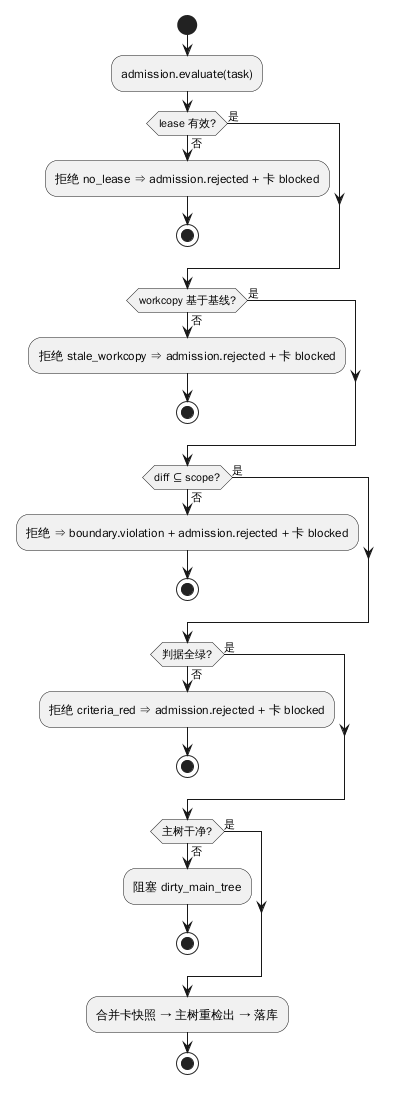
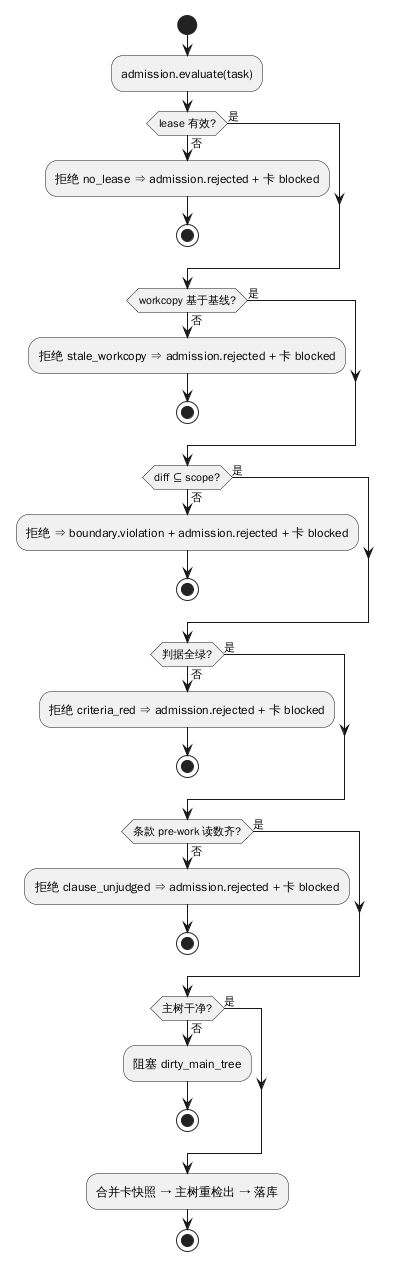
docs+design+check: 第二十八轮评审修复（clause_readings 进签名、P4 图补 clause_unjudged、M1/M2 排期、R33 表图一致）

diff --git a/design/check.py b/design/check.py
@@ -661,6 +661,23 @@ for path in sorted(glob.glob(os.path.join(DOCS, "*.md"))) + [
                                f"（freshness 会漏，改成 docs/04 §4 的三条）")
 bad.extend(banned_hits)
 
+# ---------- R33 P4 判定表的拒绝码必须出现在 P4 流程图里 ----------
+p4_sec = re.search(r"\n## \d+\. P4[^\n]*\n(.*?)(?=\n## \d+\. )", d03, flags=re.S)
+p4_dot = diagram_sources().get("p4-admission.puml", "")
+if p4_sec and p4_dot:
+    codes = set()
+    for line in p4_sec.group(1).splitlines():
+        if not line.startswith("|"):
+            continue
+        cells = [c.strip() for c in line.strip().strip("|").split("|")]
+        if len(cells) >= 6:
+            # 只取「拒绝/阻塞」后面那个 code，别把正文里提到的其它标识当拒绝码
+            codes |= set(re.findall(r"(?:拒绝|阻塞)[^`|]*`([a-z_.]+)`", cells[-1]))
+    for code in sorted(codes):
+        if code not in p4_dot:
+            bad.append(f"[R33] P4 判定表里的 {code} 没出现在 p4-admission 流程图里"
+                       f"（表与图两张表达，必有一边漏）")
+
 if bad:
     print(f"✗ design 漂移 {len(bad)} 处：")
     for b in bad:
@@ -668,4 +685,4 @@ if bad:
     sys.exit(1)
 
 print("✓ design 无漂移：图片、产物&源文件重建一致、事件 kind（文档+图）、模块↔组件、"
-      "标题编号、状态枚举、分层依赖、计数、P3 串联、矩阵守卫点、依赖列、事件生产者、判据落点、preset 保证、过程归属、顺序图依赖、废弃句式")
+      "标题编号、状态枚举、分层依赖、计数、P3 串联、矩阵守卫点、依赖列、事件生产者、判据落点、preset 保证、过程归属、顺序图依赖、废弃句式、P4 表图一致")

diff --git a/design/diagrams/build.py b/design/diagrams/build.py
@@ -212,6 +212,11 @@ if (判据全绿?) then (否)
   stop
 else (是)
 endif
+if (条款 pre-work 读数齐?) then (否)
+  :拒绝 clause_unjudged ⇒ admission.rejected + 卡 blocked;
+  stop
+else (是)
+endif
 if (主树干净?) then (否)
   :阻塞 dirty_main_tree;
   stop
@@ -528,6 +533,7 @@ class Snapshot {
 class Decision {
   + id : DecisionId
   + payload : PayloadHash
+  + clauseReadings : list
   + frontier : Frontier
   + sign(signer)
 }

diff --git a/design/REVIEW.md b/design/REVIEW.md
@@ -370,7 +370,21 @@
 - 准入：`clause_unjudged` 只查 pre-work 八条，与其余前置**同时**判；
 - post-work：`task.complete`/`design.code_matches`/`node.integration_listed` 在各自时点判。
 
-## 28. 当前状态与未覆盖项
+## 28. 评审二十八（2026-11-06，**评审会话 2**，整套设计审）
+
+**起点**：`8e04319`。**结论**：方向都通过，但最后几轮新增的"晚到条款"链**没有闭环**——设计写了、签字 schema / 流程图 / 实施计划没接住。**3 个 P1 + 4 个 P2**，核实为真；也修正了我上一轮"无 P1"的说法（那是只看了配置面）。
+
+| 发现 | 处置 | 落点 |
+|---|---|---|
+| **P1-1 `spec_set` 签字载荷没有绑定条款读数**：docs/04 要求"签字前渲染每条 requirement 的 pre-work 读数"，但 payload 只有 `spec_ids[]`/`dispositions[]`，没有 `readings[]`/`readings_hash` ⇒ 人签的是集合，签完后读数变了签名仍有效 | payload 加 **`clause_readings[]`**（`spec_id`/`spec_version_hash`/`criterion`/`verdict`/`stage_run_id`/`data_hash`）与 **`readings_hash`**；`content_hash` 覆盖 `readings_hash`；P9 C 组加对账（复算不一致即红）；`Decision` 类加该字段 | `docs/06` §5、`design/03` P9、类图 |
+| **P1-2 P4 流程图没有 `clause_unjudged` 分支**（判定表有、图没有 → 两张表达漂移；R19 只保证图能重建） | `p4-admission` 模板加分支（在"判据全绿"之后、"主树干净"之前）；重建；**新增 R33**：P4 表里「拒绝/阻塞」的每个 code 必须出现在流程图里（已做反例：删掉分支即红） | `design/diagrams/build.py`、`design/check.py` R33 |
+| **P1-3 M1/M2 没排晚到条款链**：M1 有假设链与抽样，但没有 `spec_set` 签字载荷、`clause_unjudged`、P13 重判 ⇒ 设计补了、实施计划不会建 | M1「做」补：`spec_set` 载荷含 `clause_readings[]`/`readings_hash`、P13 按依赖闭包重判、P4 `clause_unjudged`；判死读数加"晚到 requirement 未重判 ⇒ 准入被拒；缺读数 ⇒ 拒签"。M2 补 `spec_set` 的签/撤销级联 | `docs/09` §16.2/§16.3 |
+| P2 `clause_unjudged` 不查"条款在有效 `spec_set` 里" | 明确写死：`spec_set.signed` 是 **stage 出口门**、不是准入前置（避免自指）；准入只查读数 | `design/03` P4 |
+| P2 `docs/07` 准入没写 `clause_unjudged` | 19.3 流程图与 19 节准入表都补上该前置 | `docs/07` |
+| P2 README 还写"配置面" | 改成「设计基线可进入实现；配置面、假设面、条款质量面均已通过」 | `design/README` |
+| P2 台账 27 轮说"无 P1" | 本轮补 §28 更正：27 轮只覆盖配置面，晚到条款链的 P1 由会话 2 查出 | 本文件 |
+
+## 29. 当前状态与未覆盖项
 
 - 判据 **24 条**、过程 **15 个**、图 **28 张**、表 **26 张**、模块 **20 个**；G1–G5 全 A；探针 **21 PASS / 0 GAP**。
 - **未覆盖（明确不声称已验）**：
@@ -379,7 +393,22 @@
   3. 评审抽样的**规则**已进 `review.required` 与 P14，但**没跑过一轮**（P14 的抽样只在文档里），仍然只能靠实现期验证。
 - 下一轮评审若继续，优先看上面三项，而不是再加文档。
 
-### 28.1 机制预算读数（`docs/01` §11 要求）
+### 29.1 评审作用域（结论只在所述作用域内成立）
+
+这套台账里两个会话的审法不同，**结论必须带作用域**，否则会被读成全局结论：
+
+| 作用域 | 怎么审 | 能发现什么 | 不能发现什么 |
+|---|---|---|---|
+| **增量** | 只核上一轮的处置，加上它触达的面 | 修错、修窄、修过头 | 上一轮没提到的整块缺口 |
+| **整套** | 从三条保证重推一遍，覆盖全部载体（判据/签字 schema/流程图/里程碑/probe） | 跨载体的"写了没接住" | 细节回归（那是增量的事） |
+
+**教训**：第 27 轮（增量）写"无 P1"，第 28 轮（整套）立刻找出 3 个 P1。不是谁漏了，是**作用域不同**。所以：
+
+- 每轮标题里的"复评/复审"默认是**增量**；只有写"整套设计审"的才是整套；
+- **"无 P1" 只在所述作用域内成立**，台账里不再用它暗示"可收口"；
+- **整套审放在里程碑门上**（进 M1 前、发版前各一次），不是每轮都做——每轮做增量，成本低、回归快。
+
+### 29.2 机制预算读数（`docs/01` §11 要求）
 
 | 项 | 现在 | 本轮新增机制类 |
 |---|---|---|
@@ -392,7 +421,7 @@
 
 **退休候选（`caught=0` 且无人消费）**：暂无。先例是第七轮删掉的 `core_waived_unstated`（"写降级就放行"的分支，从未被走到）——给新机制定退休条件时，照这个做：**只要一个分支永远不可达，就删掉它，而不是留着"看起来在管"。**
 
-### 28.2 结构与 OOM 覆盖自查（作者自查，非评审）
+### 29.3 结构与 OOM 覆盖自查（作者自查，非评审）
 
 按"概念表 → 类/上下文/模块"和"过程 → 模块"两个方向对了一遍，查出 5 处覆盖缺口（都已修）：
 

diff --git a/design/README.md b/design/README.md
@@ -1,8 +1,8 @@
 # 设计阶段（结构化设计 + 面向对象模型）
 
-> **状态：配置面已通过非作者评审，可进入实现**（二十七轮，2026-11-02 至 11-06；记录见 [REVIEW.md](REVIEW.md)）。
+> **状态：设计基线可进入实现；配置面、假设面、条款质量面均已通过非作者评审**（二十八轮，2026-11-02 至 11-06；记录见 [REVIEW.md](REVIEW.md)）。
 > [`docs/14`](../docs/14-待决缺口.md) 的 G1–G5 **已全部决定（均选 A）**，探针 **21 PASS / 0 GAP**。
-> 三到二十七轮提出的配置面问题**逐条处置完毕**：core 判据清单与**有效绑定**、release 绑 `baseline_hash`、baseline 影响面进签名、`docs/02` 的 baseline 引用语义、stage 的 `kinds` 与 `after` 边、`guarantee_delta` 的机械推导、**三个 preset 的 gate 目录**、**core 强制（无"写降级就过"后门）**。**未覆盖**：运行时未验、评审抽样未落地；假设状态机的**规则**已进 probe #15，但**实现未写**（不是「未进 probe」），见 [REVIEW.md](REVIEW.md) §28——实现从 [docs/09 §16](../docs/09-交付与迁移.md) 的 M1 开始。
+> 三到二十八轮提出的问题**逐条处置完毕**（配置面、假设面、抽样、晚到条款链）：core 判据清单与**有效绑定**、release 绑 `baseline_hash`、baseline 影响面进签名、`docs/02` 的 baseline 引用语义、stage 的 `kinds` 与 `after` 边、`guarantee_delta` 的机械推导、**三个 preset 的 gate 目录**、**core 强制（无"写降级就过"后门）**。**未覆盖**：运行时未验、评审抽样未落地；假设状态机的**规则**已进 probe #15，但**实现未写**（不是「未进 probe」），见 [REVIEW.md](REVIEW.md) §29（**结论带作用域**：增量审只管上一轮处置，整套审放在里程碑门）——实现从 [docs/09 §16](../docs/09-交付与迁移.md) 的 M1 开始。
 
 > 这个目录接在 `docs/`（需求/设计基线）之后、实现之前。它回答两件事：
 > **系统怎么分层、模块怎么切**（结构化设计），以及 **对象怎么建模、职责怎么分**（OOM）。
@@ -24,7 +24,7 @@
 | [01-结构化设计](01-结构化设计.md) | 分层、模块、接口、依赖规则、数据流、事务与错误模型 |
 | [02-面向对象模型](02-面向对象模型.md) | 限界上下文、类图、状态图、顺序图、聚合与不变量守卫矩阵 |
 | [03-过程逻辑](03-过程逻辑.md) | 流程图、N-S 图、PAD 图、判定表/判定树（15 个过程：P1–P10 原样 + P11 对齐/复述、P12 假设处置、P13 变更返工、P14 评审收口、P15 配置与冻结；含 verify 与签字） |
-| [REVIEW.md](REVIEW.md) | **评审台账**：二十七轮非作者评审的发现 → 处置 → 落点，以及明确的未覆盖项 |
+| [REVIEW.md](REVIEW.md) | **评审台账**：二十八轮非作者评审的发现 → 处置 → 落点，以及明确的未覆盖项 |
 | [diagrams/](diagrams/) | 28 张图：**PlantUML**（流程图/类图/状态图/顺序图，`.puml`）+ **Graphviz**（N-S/PAD/判定树，`.dot`）；`python3 diagrams/build.py` 重新生成 |
 
 ## 评审门槛（进实现前必须满足）
@@ -61,9 +61,10 @@
 | R29 | **preset 冻结结论可由机器复算**：严格解析 `docs/04` 的 `保证` 与 `applies_to`（非 kind 取值即红）+ `docs/08` §1.1 的三份 gate 目录（未知键即红），复算有效绑定（`all_of` + 不可豁免 + stage 适用），core 三条必须有效绑定；**末尾三组自检**保证"该拦的真被拦住" |
 | R30 | **每个过程都有模块归属**：`design/03` §17 表的模块列必须覆盖 P1–P15，且每个名字都在 `design/01` 模块表里（改名、删行都会红） |
 | R31 | **顺序图里的 L1→L1 调用必须登记**：实线 `->` 两端都属于 L1 时，目标模块必须出现在源模块的依赖列里（虚线 `-->` 是返回，不算）；抓"图里出现、架构里没登记"的漂移。**已知边界**：`handlers` 的依赖写作「L1 服务」（刻意抽象），L2→L1 不做逐边校验，见 `design/01` §3 |
+| R33 | **P4 判定表与流程图一致**：表里「拒绝/阻塞」的每个 code 必须出现在 `p4-admission` 流程图里（同一过程两张表达，漏一边即红） |
 | R32 | **已废弃的判据句式不许留在实现面**：`docs/` 与 `design/01–03` 里出现"仍为 open 的假设都必须已被…覆盖"之类旧谓词即红（freshness 会漏） |
 
-绿色只说明"这十八类漂移没有"，**不说明语义对**——语义仍靠评审。
+绿色只说明"这十九类漂移没有"，**不说明语义对**——语义仍靠评审。
 
 > `make all` **不重建图**：重建会把过期产物"改对"再让检查比对，等于自己骗自己。要重建跑 `make fresh`（= `design` + `all`），或单独 `make design`。
 

diff --git a/design/03-过程逻辑.md b/design/03-过程逻辑.md
@@ -153,7 +153,7 @@
 | 是 | 否 | — | — | — | 拒绝 `stale_workcopy` |
 | 是 | 是 | 否 | — | — | 拒绝 + `boundary.violation` |
 | 是 | 是 | 是 | 否 | — | 拒绝 `criteria_red` |
-| 卡关联的 requirement/design 条款**最近一次修订之后没有 pre-work 判据读数**（只查不需要产物的那批；post-work 的 `task.complete`/`design.code_matches` 不在准入查） | — | — | — | — | 拒绝 `clause_unjudged`（晚到/改过的条款没过自己的 **pre-work** 判据：`alignment.examples_present`/`redteam.disposed`/`stage.requirement_complete`/`design.covers_spec`/`design.no_spec_creep`/`design.alternatives_declared`/`intent.restated_consistent`/`node.acceptance_bound`；**这一行是独立前置，与其余列同时判**） |
+| 卡关联的 requirement/design 条款**最近一次修订之后没有 pre-work 判据读数**（只查不需要产物的那批；post-work 的 `task.complete`/`design.code_matches` 不在准入查） | — | — | — | — | 拒绝 `clause_unjudged`（晚到/改过的条款没过自己的 **pre-work** 判据（**只查读数，不查条款是否已在有效 `spec_set` 里**——`spec_set.signed` 是 **stage 出口门**，不是准入前置，避免自指）；`alignment.examples_present`/`redteam.disposed`/`stage.requirement_complete`/`design.covers_spec`/`design.no_spec_creep`/`design.alternatives_declared`/`intent.restated_consistent`/`node.acceptance_bound`；**这一行是独立前置，与其余列同时判**） |
 | 是 | 是 | 是 | 是 | 否 | 阻塞 `dirty_main_tree` |
 | 是 | 是 | 是 | 是 | 是 | 准入 |
 
@@ -268,7 +268,7 @@
 |---|---|---|
 | **A 事件链** | hash 链连续、`prev` 存在、`state.cursor` 与事件数一致 | `chain_broken` |
 | **B 引用** | `subject` 外键可解析、`claim.derived_by` 已注册、`snapshot_parent` 无悬空（`docs/14` G1）、`event.kind ⊆ event_kind`（G5） | `reference_dangling` |
-| **C 判定** | 派生列 = 重算值（G2）、每条 `active` 判据**有 `remedy` + 正例 + 负例**（不是"无负例"）、判定引用的 `baseline` 仍已冻结且可复算、**`direction` 与内容 diff 一致**（收紧/放宽不能记反）、**每条 `assumption.disposed` 的 `decision_id` 指向有效 `assumption_set`**（该 decision 的 `spec_ids[]`/`dispositions[]` 覆盖这条且一致，状态与事件一致）、**每条有效 `assumption_set` 的 `dispositions[]` 都有对应的 `assumption.disposed`**（缺 ⇒ 按 `decision_id` 幂等重放，重放后仍缺 ⇒ 红）、`decision.signature` 可验且 `signer ≠ producer`、**release 冻结（`kind='freeze'`）的 `scenarios_run[]` 非空且 `ran_by` 是人**（`kind='baseline'` 不要求） | `judgement_mismatch` |
+| **C 判定** | 派生列 = 重算值（G2）、每条 `active` 判据**有 `remedy` + 正例 + 负例**（不是"无负例"）、判定引用的 `baseline` 仍已冻结且可复算、**`direction` 与内容 diff 一致**（收紧/放宽不能记反）、**每条 `assumption.disposed` 的 `decision_id` 指向有效 `assumption_set`**（该 decision 的 `spec_ids[]`/`dispositions[]` 覆盖这条且一致，状态与事件一致）、**`spec_set` 的 `readings_hash` 与按 `clause_readings[]` 复算的一致**（读数被改过即红）、**每条有效 `assumption_set` 的 `dispositions[]` 都有对应的 `assumption.disposed`**（缺 ⇒ 按 `decision_id` 幂等重放，重放后仍缺 ⇒ 红）、`decision.signature` 可验且 `signer ≠ producer`、**release 冻结（`kind='freeze'`）的 `scenarios_run[]` 非空且 `ran_by` 是人**（`kind='baseline'` 不要求） | `judgement_mismatch` |
 | **D 运行态** | `busy` 卡有未过期 `lease` 且 `lease.actor = claim.actor`、库加密状态与 `assurance.db_confidentiality` 一致 | `runtime_inconsistent` |
 
 > C 组的判据检查按 `docs/04` 注册门槛的前三条走：**`remedy`、正例、负例都查**。只查"无负例"会漏掉"有负例、没正例"和"有正负例、没 remedy"两种绕过——它们都是绕过写入路径直接插库能造出来的。

diff --git a/docs/09-交付与迁移.md b/docs/09-交付与迁移.md
@@ -281,7 +281,7 @@ sdo_ledger diff --from r-2026-10-a --to r-2026-11-a
 
 ### 16.2 M1 · 链条、对齐与返工面（2–3 周）
 
-**做**：intent/spec/scenario/criterion/evidence/claim 六表 + **对齐三件套（复述/例子/回指）** + 判据注册（强制负例）+ **baseline 冻结 + P15 配置校验器**（**stage 缺 `kinds`/`after` 或 DAG 有环**、空 gate、未注册判据、**core 判据没达到有效绑定**（不在适用 stage、或在 `any_of` 门里、或所在 gate 可豁免）、缺 engine 一律拒绝；落 `baseline.rejected`）+ **假设处置链**（`assumption.disposed` 投影、`assumption_set` 先签后处置、失效 fold、撤销级联）+ **评审抽样**（policy 的 `review` 参数（`sample_every`/`sample_seed`）进 baseline，P14 按卡的单调建卡序号取模抽卡（hash 只用于选起点））+ `sdo_check` + 门禁判定 + **preview 的 `rework_units`**（变更前算"要重做多少"）。
+**做**：intent/spec/scenario/criterion/evidence/claim 六表 + **对齐三件套（复述/例子/回指）** + 判据注册（强制负例）+ **baseline 冻结 + P15 配置校验器**（**stage 缺 `kinds`/`after` 或 DAG 有环**、空 gate、未注册判据、**core 判据没达到有效绑定**（不在适用 stage、或在 `any_of` 门里、或所在 gate 可豁免）、缺 engine 一律拒绝；落 `baseline.rejected`）+ **假设处置链**（`assumption.disposed` 投影、`assumption_set` 先签后处置、失效 fold、撤销级联）+ **评审抽样**（policy 的 `review` 参数（`sample_every`/`sample_seed`）进 baseline，P14 按卡的单调建卡序号取模抽卡（hash 只用于选起点））+ **晚到条款链**（`spec_set` 签字载荷含 `clause_readings[]`/`readings_hash`、P13 按依赖闭包重判 pre-work、P4 的 `clause_unjudged` 准入）；判死读数：**晚到 requirement 未重判 ⇒ 准入被拒；`spec_set` 缺读数 ⇒ 拒签**+ `sdo_check` + 门禁判定 + **preview 的 `rework_units`**（变更前算"要重做多少"）。
 
 > **顺序不能反**：`sdo_check` 与 `stage_run.baseline_hash` 都要求先有冻结的 baseline；没有尺子就建门禁，等于"门禁有了、尺子没冻"。
 
@@ -298,7 +298,7 @@ sdo_ledger diff --from r-2026-10-a --to r-2026-11-a
 
 ### 16.3 M2 · 交互与签字（2–3 周）
 
-**做**：待审队列（四项契约）+ 登录 + 签章口令 + signerd + 免密窗口 + 撤销（**含撤销 `assumption_set` 的级联**：覆盖的假设回 `open`、必须重签）。
+**做**：待审队列（四项契约）+ 登录 + 签章口令 + signerd + 免密窗口 + 撤销（**含撤销 `assumption_set` / `spec_set` 的级联**：覆盖的假设回 `open`、覆盖的需求集合失效、必须重签）。
 
 > **M2 的目标不是"有签字"，是"签字便宜"**：认证走 passkey/平台认证器，免密窗口内连签，签字页 ≤ 2 次交互。判死读数里加一条：单次签字的人工时间中位数 **≤ 10 秒**。超过就说明认证设计错了，不是人多事。
 

diff --git a/docs/06-签字与安全.md b/docs/06-签字与安全.md
@@ -127,6 +127,11 @@ agent ──sdo_act(请求签字)─────────┘                 
   "decision_kind": "spec_set",  // ∈ {sign, spec_set, assumption_set, freeze, baseline, waiver, rollback}
   // rollback：绑目标 release 的 frontier 与产物 sha256（[09](09-交付与迁移.md)）
   "spec_ids": ["S-1", "S-2"],   // decision_kind ∈ {spec_set, assumption_set} 时必填：签的是集合，不是一句话
+  "clause_readings": [          // 仅 spec_set：每条 requirement 的 pre-work 判据读数，工具渲染（模型不能填）
+    {"spec_id": "S-1", "spec_version_hash": "sha256:…", "criterion": "alignment.examples_present",
+     "verdict": "pass", "stage_run_id": "SR-1", "data_hash": "sha256:…"}
+  ],
+  "readings_hash": "sha256:…",  // clause_readings 的规范化哈希；content_hash 必须覆盖它
   "dispositions": [             // 仅 assumption_set：逐条处置，由工具按 preview 时的人选结果渲染（模型不能填）；签后事件由这份载荷投影
     {"spec_id": "S-1", "disposition": "confirmed"},
     {"spec_id": "S-2", "disposition": "rejected", "successor_ref": "S-9"}
@@ -156,7 +161,7 @@ agent ──sdo_act(请求签字)─────────┘                 
 
 - **`proposition` 由 renderer 从 `claim` 生成，模型不能自由撰写**——模型只能选 claim 集合；自由文本降级为 `note`（不参与 `content_hash`）。理由：允许自由命题，等于把“盲签”从后门放回来；
 - **签字对象是结构化载荷**，不是一段文字；
-- `content_hash` 覆盖"命题 + 证据引用 + 取值"，**集合签字还要覆盖 `spec_ids[]` 与 `dispositions[]`**——签的是「哪些对象、每条怎么处置」，漏在 hash 外等于签了一个看不见的集合；**任何一项变了签名即失效**；
+- `content_hash` 覆盖"命题 + 证据引用 + 取值"，**集合签字还要覆盖 `spec_ids[]`、`dispositions[]` 与 `readings_hash`**（`clause_readings[]` 的哈希）——签的是「哪些对象、每条怎么处置」，漏在 hash 外等于签了一个看不见的集合；**任何一项变了签名即失效**；
 - `as_of_frontier` 必须是签发时刻的**当前** frontier（防"签旧版本"）。
 
 **两种冻结不要混用同一个 `kind`**：`freeze` = 冻结 **release**（payload 必带 `scenarios_run[]`）；**`baseline`** = 冻结**尺子**（payload 带 baseline 的 id/hash/policy + `will_change_hash` + `guarantee_delta`，立项时还没有 scenario）。分开后 renderer、`verify` 与 P9 的"`scenarios_run` 非空"检查才分得清。

diff --git a/docs/07-协作-权限-并行与子代理.md b/docs/07-协作-权限-并行与子代理.md
@@ -401,7 +401,7 @@ CREATE TABLE lock (
 |---|---|---|
 | **预防** | **无在飞卡**、**scope 匹配**、`claim` 不可写、`sign` 不可及、TTL 收尸 | 否（只针对 v2 自己的台账与接口；**工具面不治理**，见 [10](10-语言与平台.md)「为什么不治理工具面」） |
 | **检测** | 派发打点（base commit + 授权范围 + 副本）、副本与主树比对、DB hash 链 `verify` | 否 |
-| **准入** | 只有 `diff ⊆ 授权范围`、锁已持有、判据重跑全绿，才允许合入基线（上游变更导致的级联复位见 [11](11-变更与影响链.md)） | 否 |
+| **准入** | 只有 `diff ⊆ 授权范围`、锁已持有、判据重跑全绿、**卡关联条款最近一次修订后有 pre-work 读数**（否则 `clause_unjudged`），才允许合入基线（上游变更导致的级联复位见 [11](11-变更与影响链.md)） | 否 |
 | **计价** | `boundary.violation` / `admission.rejected` / `orphan.expired` 三条事件 + 自动降权 | 否 |
 
 ### 19.2 能力票据（不是角色）
@@ -421,9 +421,9 @@ CREATE TABLE lock (
 ```text
 dispatch → 记录 base_snapshot + 授权范围 + 建副本 .work/<card-id>
 child    → 随便干（可能越界，v2 不阻止）
-admission→ diff ⊆ scopes ? 锁持有 ? 判据重跑绿 ?
+admission→ diff ⊆ scopes ? 锁持有 ? 判据重跑绿 ? 条款 pre-work 读数齐（clause_unjudged）?
            ├─ 是 → 合入基线
-           └─ 否 → 拒绝准入 + boundary.violation + 要求还原
+           └─ 否 → 拒绝准入 + boundary.violation（越界）或 admission.rejected(reason_code) + 要求还原
 ```
 
 **"能写不能进"** 比"写不进去"更好查：一旦越界，**快照差集**就是证据，而子代理的自述在结构上**无效**（`claim` 不可写，见 [03](03-链条-意图到声明.md)）。
